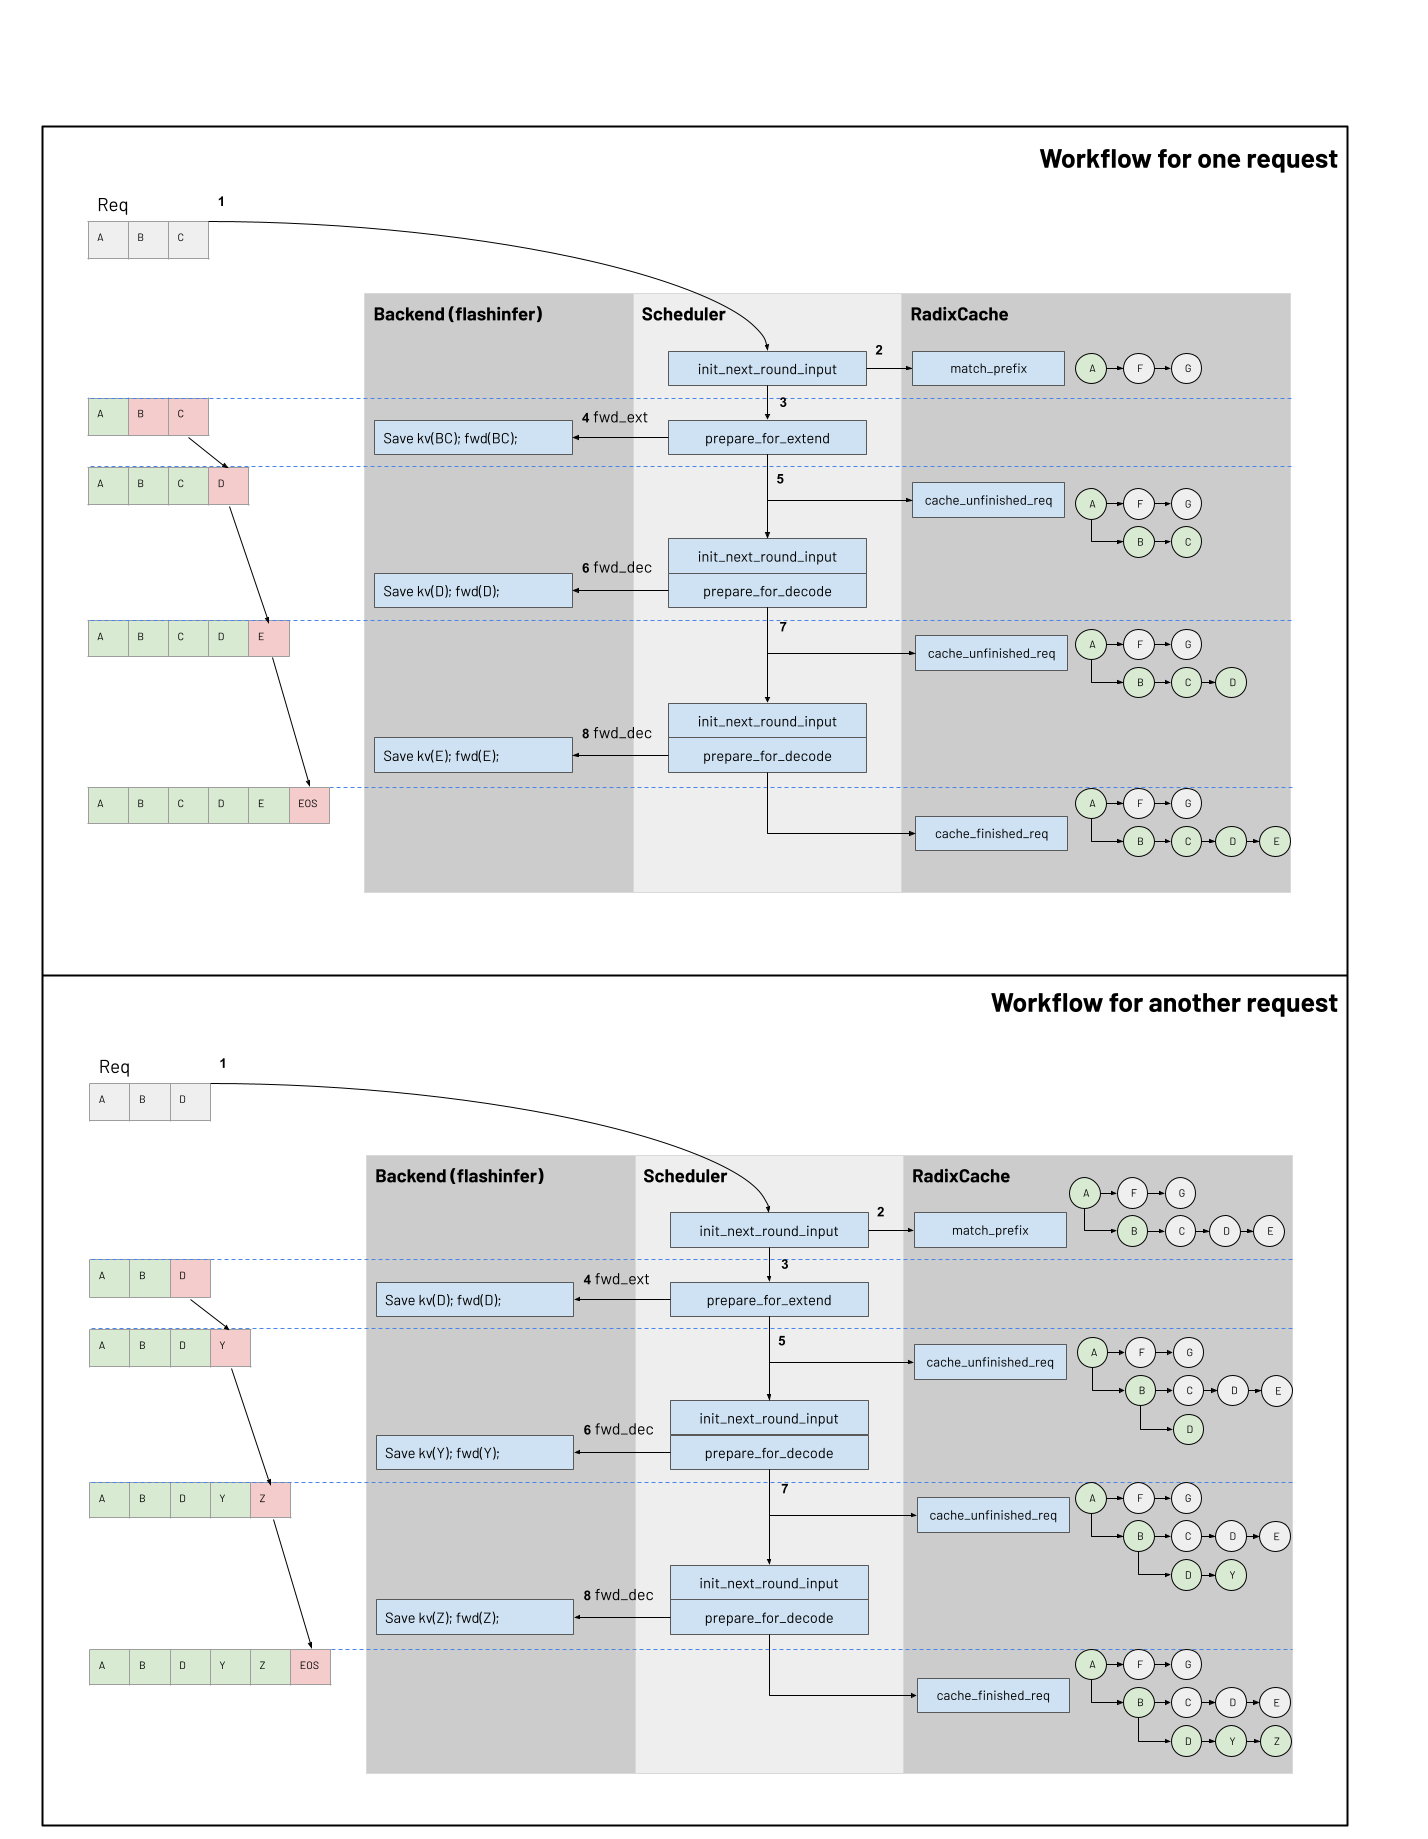
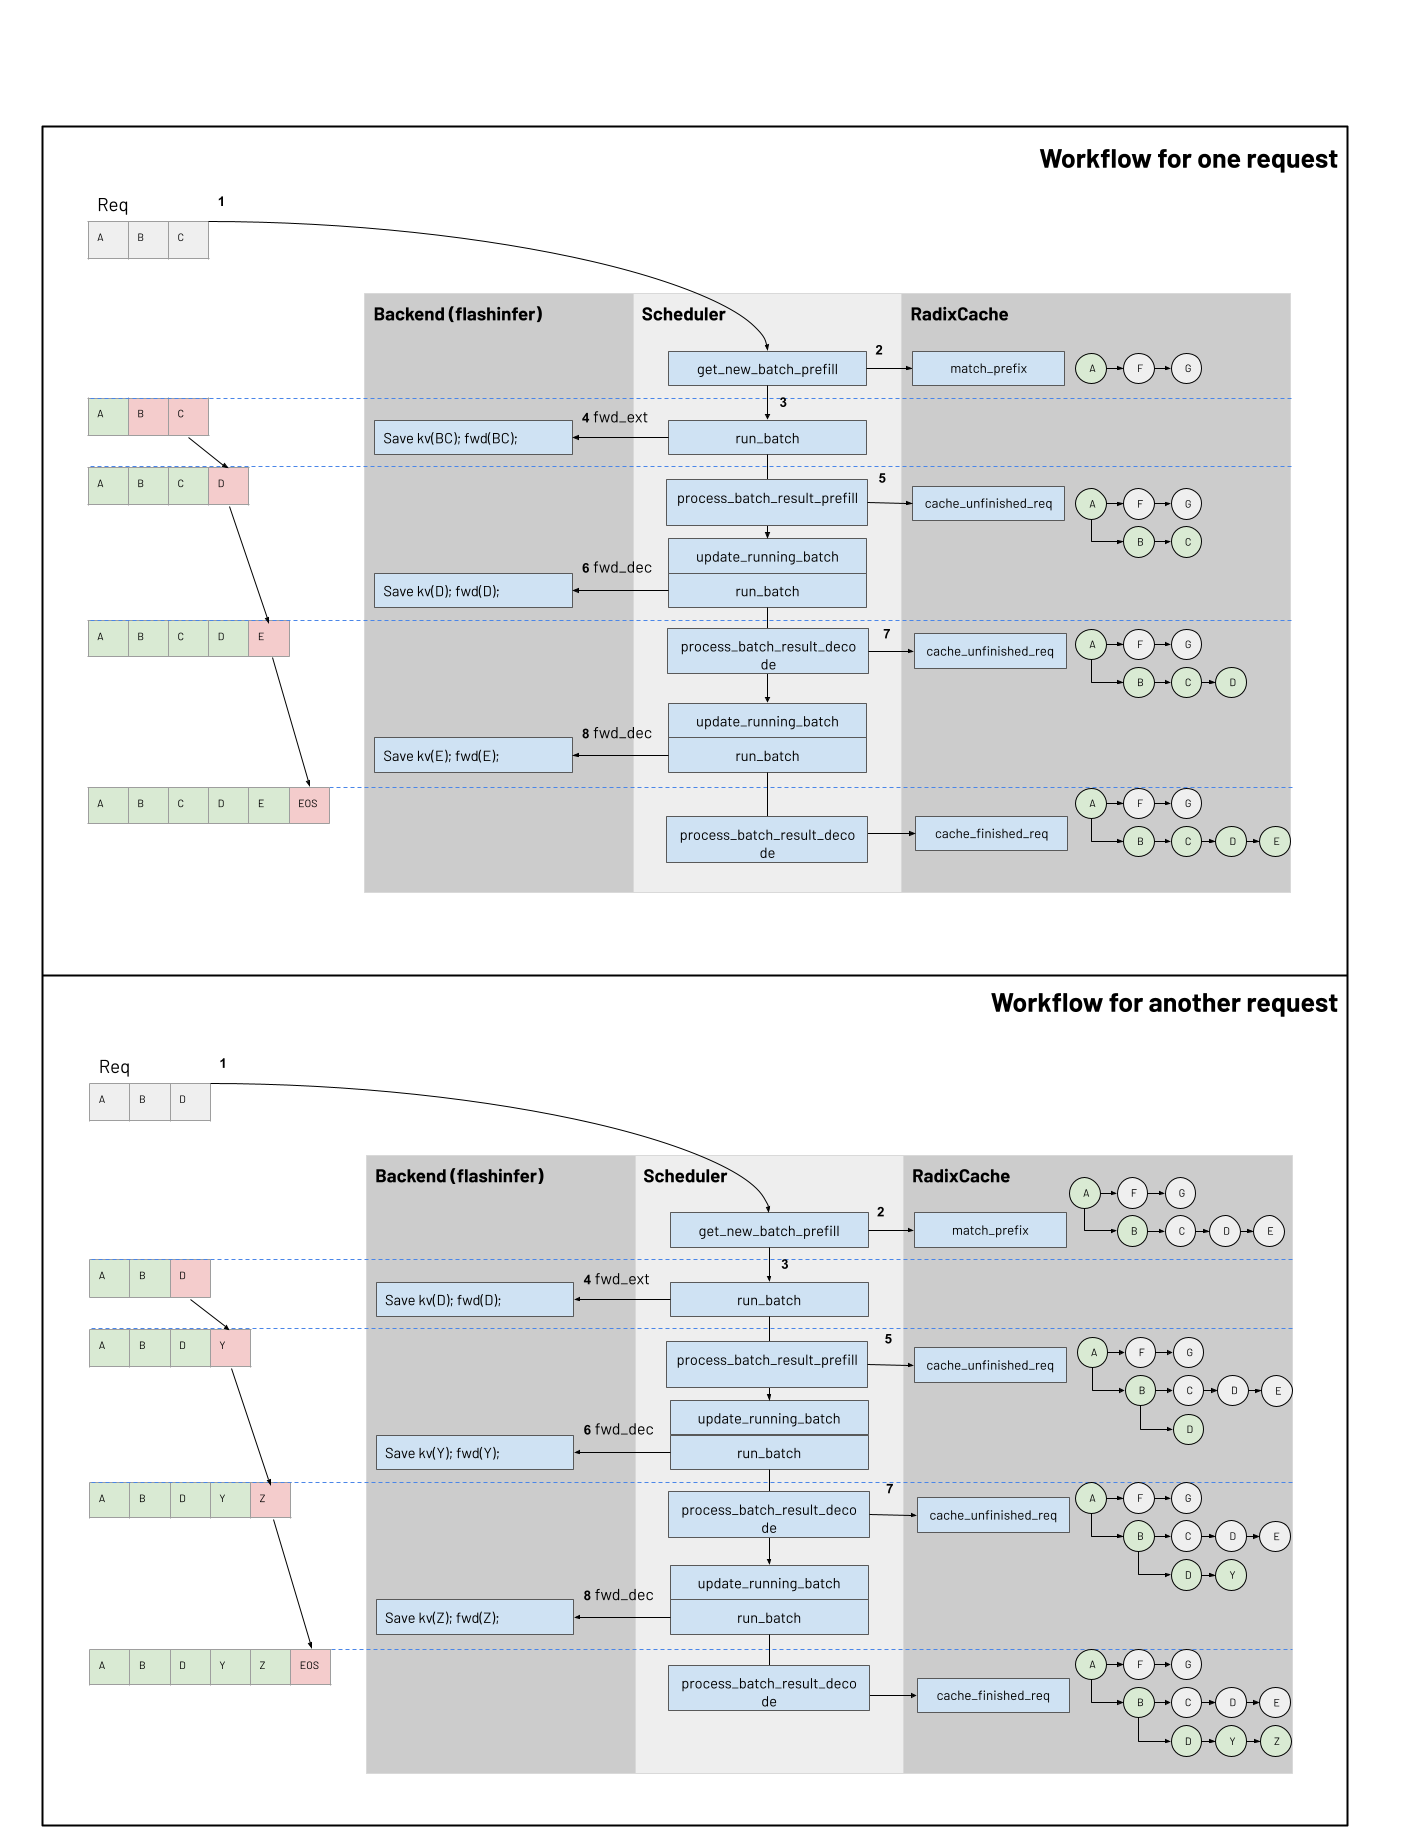
kv cache code walkthrough update

diff --git a/sglang/kvcache-code-walk-through/readme.md b/sglang/kvcache-code-walk-through/readme.md
@@ -33,8 +33,45 @@ This section would give a detailed explaination for each step in the workflow an
   - prepare_for_ext, prepare_for_dec, potentially process_batch_result?
 - Could have ScheduleBatch -> Model Runner Batch -> Forward Batch flow 
 -->
-Step 1. `init_next_round_input` 
-Step 3. `prepare_for_extend`
+We will go through the important functions that are interacting with the 2 resources by sequence.
+#### Prefill Batch
+##### 1. Function `get_new_batch_prefill` 
+  - Get the prefix from radix tree cache for request
+  - Invoke `prepare_for_extend`
+    - `req_to_token_pool`
+      - Allocate to `req_pool_indices`
+      - Add prefix to `req_to_token_pool`
+    - `token_to_kv_pool`
+      - Allocate (the sum of each batch's (number of input id tokens - number of prefix tokens)) `out_cache_loc`
+      - For example: in above diagram, the batch size is 1
+        - number of input id tokens = 3 -> A,B,C 
+        - number of prefix tokens = 1 -> A
+        - We will allocate 2 slots to `out_cache_loc` for token B, C
+##### 2. Function `run_batch` 
+Run `forward_extend` on the current batch, this will eventually invoke the backend forward_extend, which is responsible for the attention calculation and also save the kv cache for the input token in `token_to_kv_pool`. 
+
+For example: In above step, we get 2 slots for token B, C in `out_cache_loc`, their corresponding K, V would be saved to this 2 slots here.
+
+##### 3. Function `process_batch_result_prefill`
+  - If the request is finished, invoke `cache_finished_req` (refer to [PLACEHOLDER] for details of `cache_finished_req` )
+  - elese invoke `cache_unfinished_req` (refer to [PLACEHOLDER] for details of `cache_unfinished_req` )
+
+Decode Batch
+1. `update_running_batch` 
+  - Invoke `prepare_for_decode`
+    - `req_to_token_pool` No change
+    - `token_to_kv_pool`
+      - Allocate (batch size * 1) slot to `out_cache_loc` becuase we only generate one token for each batch in decode mode
+      - For example: in above diagram, the round that generate D from C
+        - We will allocate 1 slots to `out_cache_loc` for token D
+2. `run_batch`
+Run `forward_decode` on the current batch, this will eventually invoke the backend forward_decode, which is responsible for the attention calculation and also save the kv cache for the input token in `token_to_kv_pool`. 
+
+For example: In above step, we get 1 slots for token D in `out_cache_loc`, it's corresponding K, V would be saved to this 1 slot here.
+
+3. `process_batch_result_decode`
+  - If the request is finished, invoke `cache_finished_req` (refer to [PLACEHOLDER] for details of `cache_finished_req` )
+  - No operation for cache is needed for unfinished request
 
 ### Backend ([attention backend](https://github.com/sgl-project/sglang/blob/main/python/sglang/srt/layers/attention/))
 Using Flash Infer as example:
